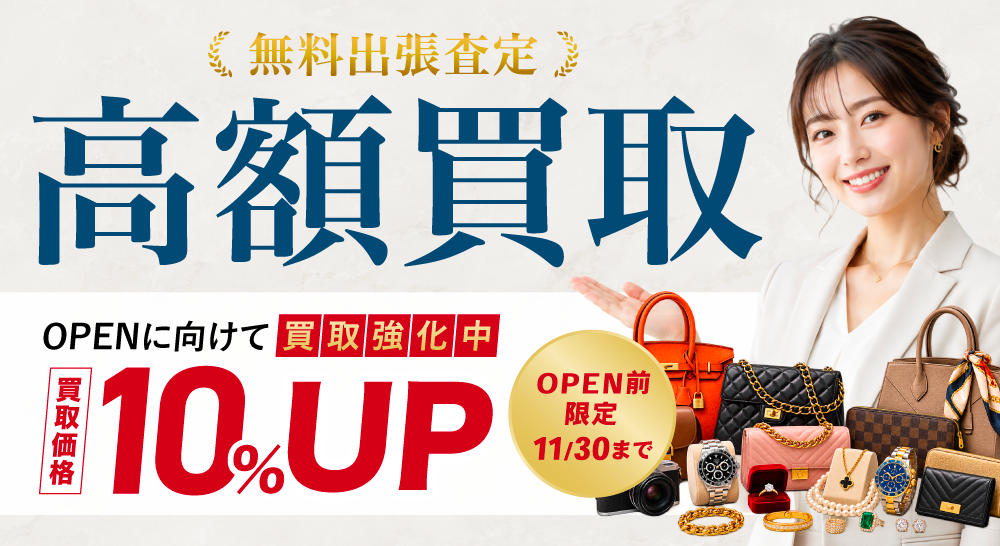
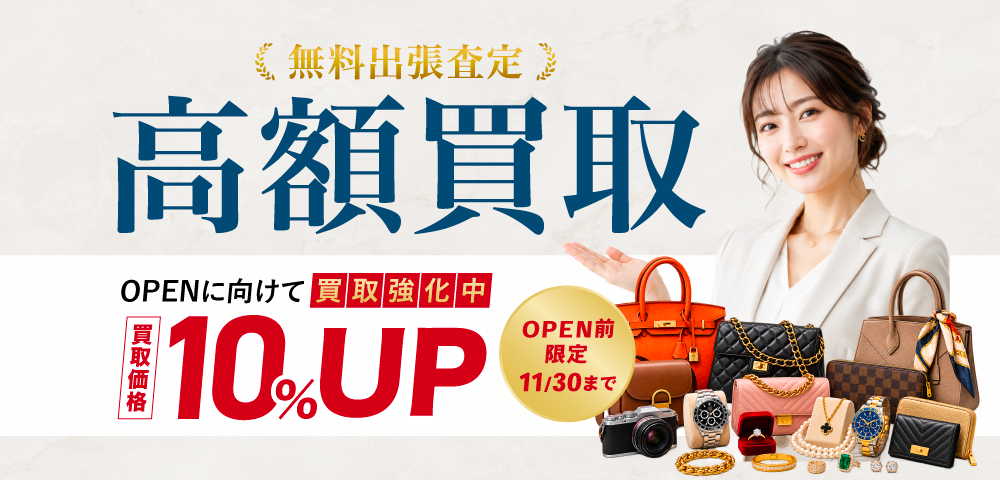
Replace desktop hero artwork

diff --git a/app/globals.css b/app/globals.css
@@ -1670,7 +1670,7 @@ em {
   .hero-topline strong { font-size: 34px; }
   .hero-topline > b { transform: translateY(-11px); }
   .hero-grid { width: min(100%, 1000px); min-height: 0; padding: 0; }
-  .hero-fv-image img { aspect-ratio: 1000 / 556; object-fit: cover; }
+  .hero-fv-image img { aspect-ratio: 1000 / 480; object-fit: cover; }
   .hero-branding img { width: 210px; }
   .hero-branding > span { font-size: 21px; }
   .hero-branding p { font-size: 14px; }
